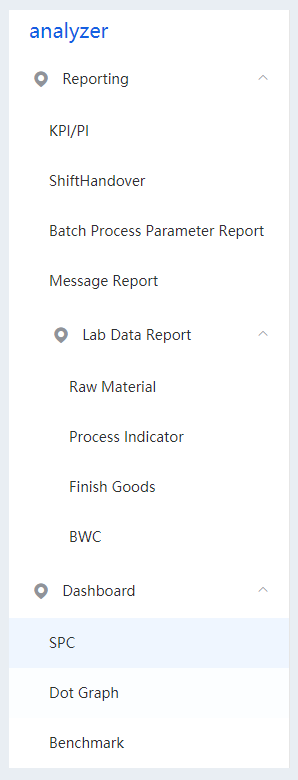
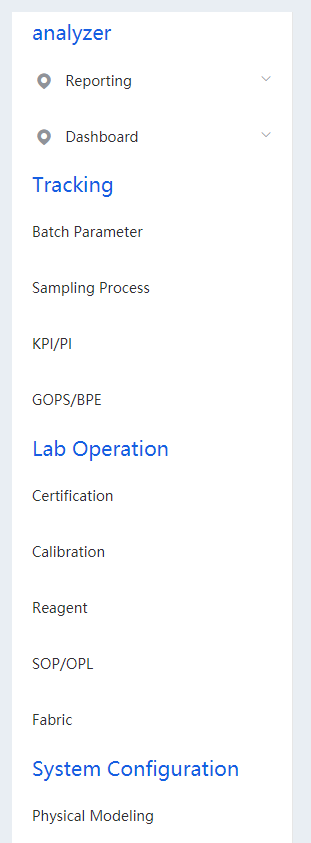
update

diff --git a/Test.vue b/Test.vue
@@ -7,7 +7,9 @@
     @open="handleOpen"
     @close="handleClose"
   >
-    <auto-menu :groupMenuData="group_menu"></auto-menu>
+    <template v-for="group_menu of menu_data">
+      <auto-menu :groupMenuData="group_menu.group_menu"></auto-menu>
+    </template>
   </el-menu>
 </template>
 <script>
@@ -27,77 +29,166 @@ export default {
   data () {
     return {
       isCollapse: false,
-      group_menu: {
-        group_title: 'analyzer',
-        submenu: [
-          {
-            index: '/reporting',
-            title: 'Reporting',
-            items: [
-              {
-                index: '/kpi_pi',
-                title: 'KPI/PI'
-              },
-              {
-                index: '/shift_handover',
-                title: 'ShiftHandover'
-              },
-              {
-                index: '/batch_process_parameter_report',
-                title: 'Batch Process Parameter Report'
-              },
-              {
-                index: '/messasge_report',
-                title: 'Message Report'
-              }
-            ],
-            submenu: [
-              {
-                index: '/lab_data_report',
-                title: 'Lab Data Report',
-                items: [
-                  {
-                    index: '/raw_material',
-                    title: 'Raw Material'
-                  },
-                  {
-                    index: '/process_indicator',
-                    title: 'Process Indicator'
-                  },
-                  {
-                    index: '/finish_goods',
-                    title: 'Finish Goods'
-                  },
-                  {
-                    index: '/bwc',
-                    title: 'BWC'
-                  }
-                ],
-                submenu: []
-              }
-            ]
-          },
-          {
-            index: '/dashboard',
-            title: 'Dashboard',
-            items: [
-              {
-                index: '/spc',
-                title: 'SPC'
-              },
-              {
-                index: '/dot_graph',
-                title: 'Dot Graph'
-              },
-              {
-                index: '/benchmark',
-                title: 'Benchmark'
-              }
-            ],
-            submenu: []
-          }
-        ]
+      menu_data: [{
+        group_menu: {
+          group_title: 'analyzer',
+          submenu: [
+            {
+              index: '/reporting',
+              title: 'Reporting',
+              items: [
+                {
+                  index: '/kpi_pi',
+                  title: 'KPI/PI'
+                },
+                {
+                  index: '/shift_handover',
+                  title: 'ShiftHandover'
+                },
+                {
+                  index: '/batch_process_parameter_report',
+                  title: 'Batch Process Parameter Report'
+                },
+                {
+                  index: '/messasge_report',
+                  title: 'Message Report'
+                }
+              ],
+              submenu: [
+                {
+                  index: '/lab_data_report',
+                  title: 'Lab Data Report',
+                  items: [
+                    {
+                      index: '/raw_material',
+                      title: 'Raw Material'
+                    },
+                    {
+                      index: '/process_indicator',
+                      title: 'Process Indicator'
+                    },
+                    {
+                      index: '/finish_goods',
+                      title: 'Finish Goods'
+                    },
+                    {
+                      index: '/bwc',
+                      title: 'BWC'
+                    }
+                  ],
+                  submenu: []
+                }
+              ]
+            },
+            {
+              index: '/dashboard',
+              title: 'Dashboard',
+              items: [
+                {
+                  index: '/spc',
+                  title: 'SPC'
+                },
+                {
+                  index: '/dot_graph',
+                  title: 'Dot Graph'
+                },
+                {
+                  index: '/benchmark',
+                  title: 'Benchmark'
+                }
+              ],
+              submenu: []
+            }
+          ],
+          items: []
+        }
+      },
+      {
+        group_menu: {
+          group_title: 'Tracking',
+          submenu: [],
+          items: [
+            {
+              index: '/batch_parameter',
+              title: 'Batch Parameter'
+            },
+            {
+              index: '/sampling_process',
+              title: 'Sampling Process'
+            },
+            {
+              index: '/kpi_pi',
+              title: 'KPI/PI'
+            },
+            {
+              index: '/gops_bpe',
+              title: 'GOPS/BPE'
+            }
+          ]
+        }
+      },
+      {
+        group_menu: {
+          group_title: 'Lab Operation',
+          submenu: [],
+          items: [
+            {
+              index: '/certification',
+              title: 'Certification'
+            },
+            {
+              index: '/calibration',
+              title: 'Calibration'
+            },
+            {
+              index: '/reagent',
+              title: 'Reagent'
+            },
+            {
+              index: '/sop_opl',
+              title: 'SOP/OPL'
+            },
+            {
+              index: '/fabric',
+              title: 'Fabric'
+            }
+          ]
+        }
+      },
+
+      {
+        group_menu: {
+          group_title: 'System Configuration',
+          submenu: [],
+          items: [
+            {
+              index: '/physical_modeling',
+              title: 'Physical Modeling'
+            },
+            {
+              index: '/process_modeling',
+              title: 'Process Modeling'
+            },
+            {
+              index: '/sampling',
+              title: 'Sampling'
+            },
+            {
+              index: '/pts',
+              title: 'PTS'
+            },
+            {
+              index: '/data_acquisition',
+              title: 'Data Acquisition'
+            },
+            {
+              index: '/user',
+              title: 'User'
+            }
+          ]
+        }
       }
+      ]
     }
   }
 }

diff --git a/AutoMenu.vue b/AutoMenu.vue
@@ -8,13 +8,13 @@
     <template v-if="menu_data.submenu.length>0">
       <auto-submenu :subMenuData="menu_data.submenu"></auto-submenu>
     </template>
-    <!-- <template v-else-if="menu_data.items.length == 0">
+    <template v-else-if="menu_data.items.length > 0">
         <template v-for="item of menu_data.items">
-          <el-menu-item index="item.index">
+          <el-menu-item :index="item.index">
             {{ item.title }}
           </el-menu-item>
         </template>
-    </template> -->
+    </template>
   </el-menu-item-group>
 </template>
 <style scoped>
@@ -33,7 +33,7 @@ export default {
     }
   },
   mounted() {
-    // console.log(this.menu_data)
+    console.log(this.menu_data)
   }
 }
 </script>

diff --git a/AutoSubmenu.vue b/AutoSubmenu.vue
@@ -11,10 +11,10 @@
             {{ item.title }}
           </el-menu-item>
         </template>
-        <template v-if="submenu.submenu.length>0">
-          <auto-sub-menu :subMenuData="submenu.submenu">
+          <template v-if="submenu.submenu.length>0">
+            <auto-sub-menu :subMenuData="submenu.submenu">
             </auto-sub-menu>
-        </template>
+          </template>
       </el-submenu>
     </template>
   </div>
@@ -31,7 +31,7 @@ export default {
     }
   },
   mounted () {
-    console.log(this.menu_data[0])
+    console.log(this.menu_data)
   }
 }
 </script>
